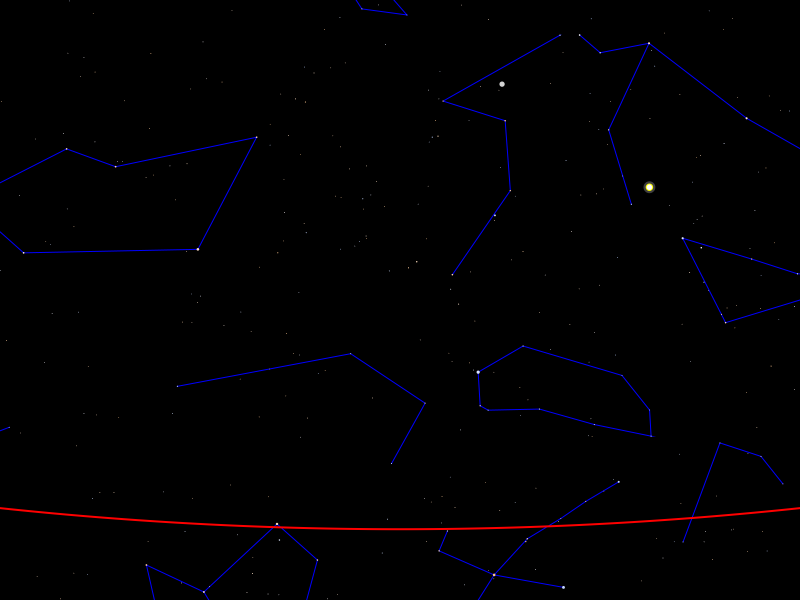
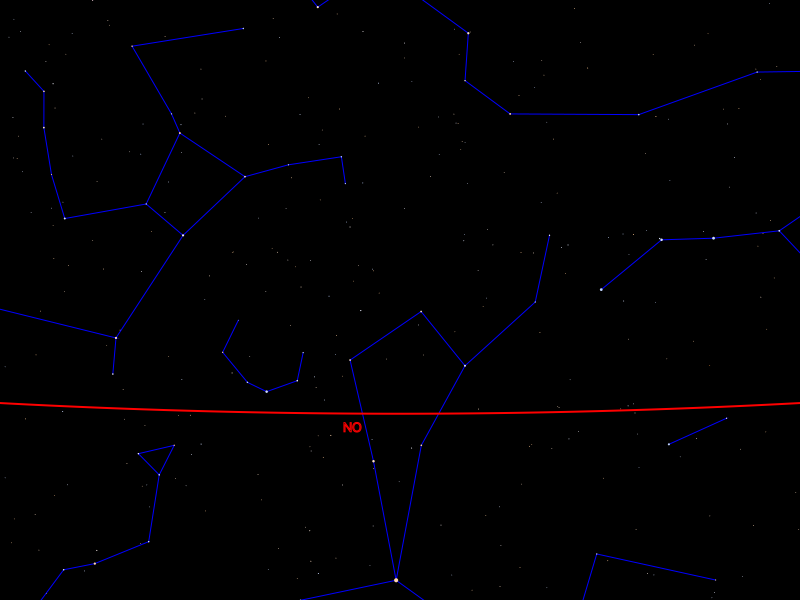
cardinal points

diff --git a/src/ch/epfl/rigel/gui/SkyCanvasPainter.java b/src/ch/epfl/rigel/gui/SkyCanvasPainter.java
@@ -1,12 +1,17 @@
 package ch.epfl.rigel.gui;
 
-import ch.epfl.rigel.astronomy.*;
+import ch.epfl.rigel.Preconditions;
+import ch.epfl.rigel.astronomy.Asterism;
+import ch.epfl.rigel.astronomy.ObservedSky;
+import ch.epfl.rigel.astronomy.Planet;
+import ch.epfl.rigel.astronomy.Star;
 import ch.epfl.rigel.coordinates.CartesianCoordinates;
 import ch.epfl.rigel.coordinates.HorizontalCoordinates;
 import ch.epfl.rigel.coordinates.StereographicProjection;
 import ch.epfl.rigel.math.Angle;
 import ch.epfl.rigel.math.ClosedInterval;
 import javafx.geometry.Point2D;
+import javafx.geometry.VPos;
 import javafx.scene.canvas.Canvas;
 import javafx.scene.canvas.GraphicsContext;
 import javafx.scene.paint.Color;
@@ -168,23 +173,93 @@ public class SkyCanvasPainter {
     public void drawCardinalPoints(StereographicProjection projection, Transform planeToCanvas) {
         ctx.setStroke(Color.RED);
         ctx.setLineWidth(1);
+        ctx.setTextBaseline(VPos.TOP);
+
+        Point2D transformedN = transformedCardPoint("N", projection, planeToCanvas);
+        ctx.strokeText("N", transformedN.getX(), transformedN.getY());
+
+        Point2D transformedNE = transformedCardPoint("NE", projection, planeToCanvas);
+        ctx.strokeText("NE", transformedNE.getX(), transformedNE.getY());
+
+        Point2D transformedE = transformedCardPoint("E", projection, planeToCanvas);
+        ctx.strokeText("E", transformedE.getX(), transformedE.getY());
+
+        Point2D transformedSE = transformedCardPoint("SE", projection, planeToCanvas);
+        ctx.strokeText("SE", transformedSE.getX(), transformedSE.getY());
+
+        Point2D transformedS = transformedCardPoint("S", projection, planeToCanvas);
+        ctx.strokeText("S", transformedS.getX(), transformedS.getY());
+
+        Point2D transformedSO = transformedCardPoint("SO", projection, planeToCanvas);
+        ctx.strokeText("SO", transformedSO.getX(), transformedSO.getY());
+
+        Point2D transformedO = transformedCardPoint("O", projection, planeToCanvas);
+        ctx.strokeText("O", transformedO.getX(), transformedO.getY());
+
+        Point2D transformedNO = transformedCardPoint("NO", projection, planeToCanvas);
+        ctx.strokeText("NO", transformedNO.getX(), transformedNO.getY());
+
 
     }
 
     /**
-     * Compute the on-screen diameter of a CelestialObject
+     * Computes the on-screen diameter of a CelestialObject
      *
-     * @param magnitude  of the CelestialObject
-     * @param projection used
-     * @param transform  to apply
-     * @return the on-screen diameter of a CelestialObject
+     * @param magnitude     of the CelestialObject
+     * @param projection    used
+     * @param planeToCanvas transformation to apply
+     * @return the on-screen diameter of the CelestialObject
      */
-    private static double transformedDiameter(double magnitude, StereographicProjection projection, Transform transform) {
+    private static double transformedDiameter(double magnitude, StereographicProjection projection, Transform planeToCanvas) {
         double clippedMagnitude = ClosedInterval.of(-2, 5).clip(magnitude);
         double factor = (99 - 17 * clippedMagnitude) / 140d;
         double diameter = factor * projection.applyToAngle(Angle.ofDeg(0.5));
-        Point2D size = transform.deltaTransform(diameter, diameter);
+        Point2D size = planeToCanvas.deltaTransform(diameter, diameter);
         return size.getX();
+    }
+
+    /**
+     * Computes the on-screen position of a cardinal point
+     *
+     * @param cardPoint     string representation of the cardinal point (N, NE, E, SE, S, SO, O or NO)
+     * @param projection    used
+     * @param planeToCanvas transformation to apply
+     * @return the on-screen position of the cardinal point
+     */
+    private static Point2D transformedCardPoint(String cardPoint, StereographicProjection projection, Transform planeToCanvas) {
+        double az = 0;
+        switch (cardPoint) {
+            case "N":
+                az = 0;
+                break;
+            case "NE":
+                az = 45;
+                break;
+            case "E":
+                az = 90;
+                break;
+            case "SE":
+                az = 135;
+                break;
+            case "S":
+                az = 180;
+                break;
+            case "SO":
+                az = 225;
+                break;
+            case "O":
+                az = 270;
+                break;
+            case "NO":
+                az = 315;
+                break;
+            default:
+                Preconditions.checkArgument(false);
+        }
+
+        CartesianCoordinates card = projection.apply(HorizontalCoordinates.of(Angle.ofDeg(az), Angle.ofDeg(-0.5)));
+        return planeToCanvas.transform(card.x(), card.y());
+
     }
 
 }

diff --git a/src/ch/epfl/rigel/gui/MyDrawSky.java b/src/ch/epfl/rigel/gui/MyDrawSky.java
@@ -44,7 +44,7 @@ public final class MyDrawSky extends Application {
                     .build();
             ZonedDateTime when = ZonedDateTime.parse("2020-02-17T14:15:00+01:00");
             GeographicCoordinates where = GeographicCoordinates.ofDeg(6.57, 46.52);
-            HorizontalCoordinates projCenter = HorizontalCoordinates.ofDeg(180, 20);
+            HorizontalCoordinates projCenter = HorizontalCoordinates.ofDeg(320, 10);
             StereographicProjection projection = new StereographicProjection(projCenter);
 
             ObservedSky sky = new ObservedSky(when, where, projection, catalogue);
